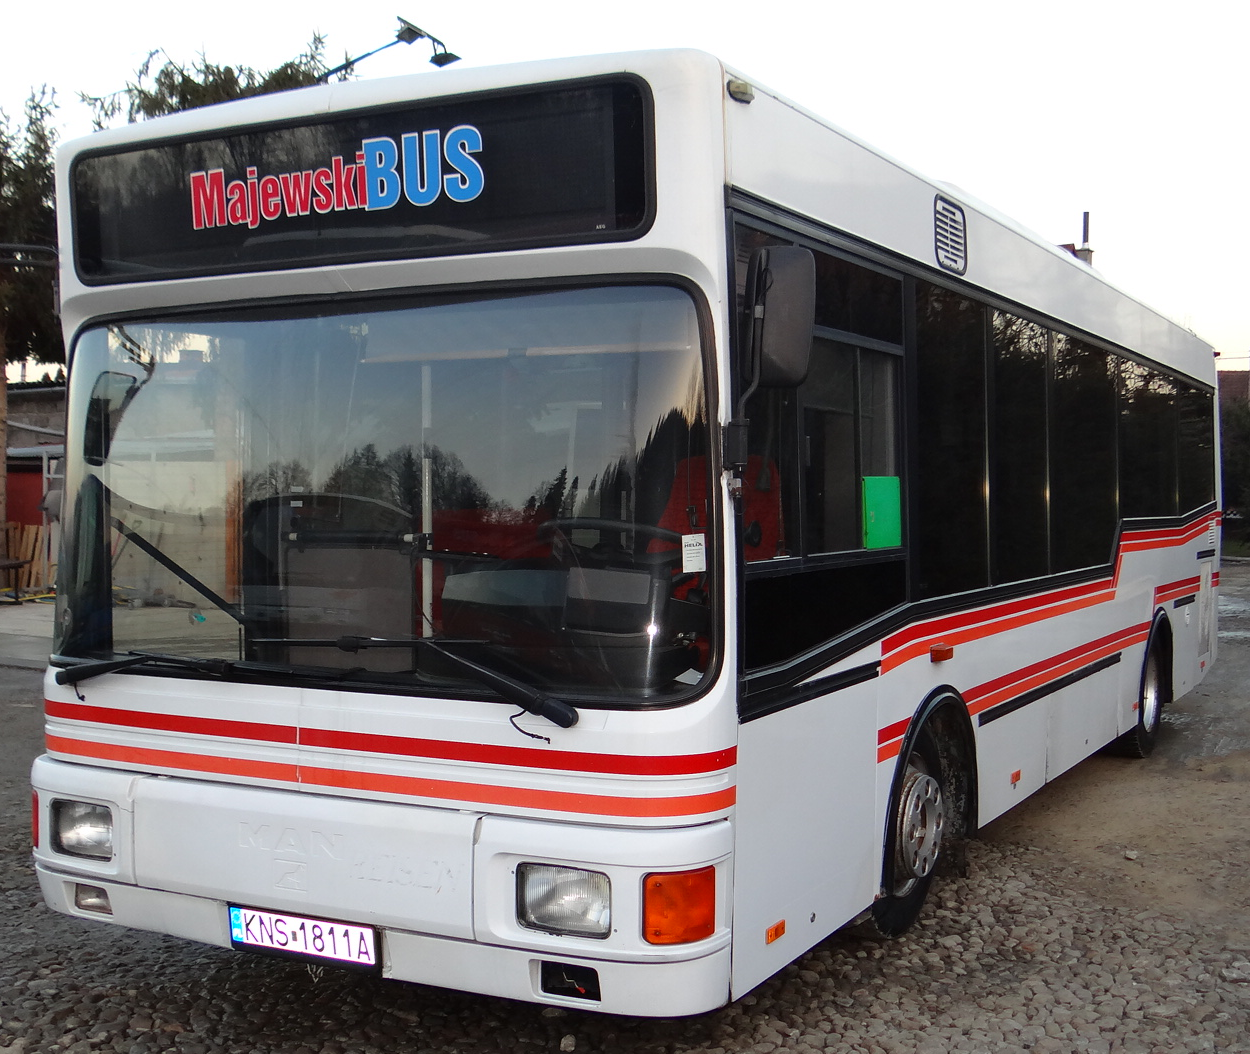
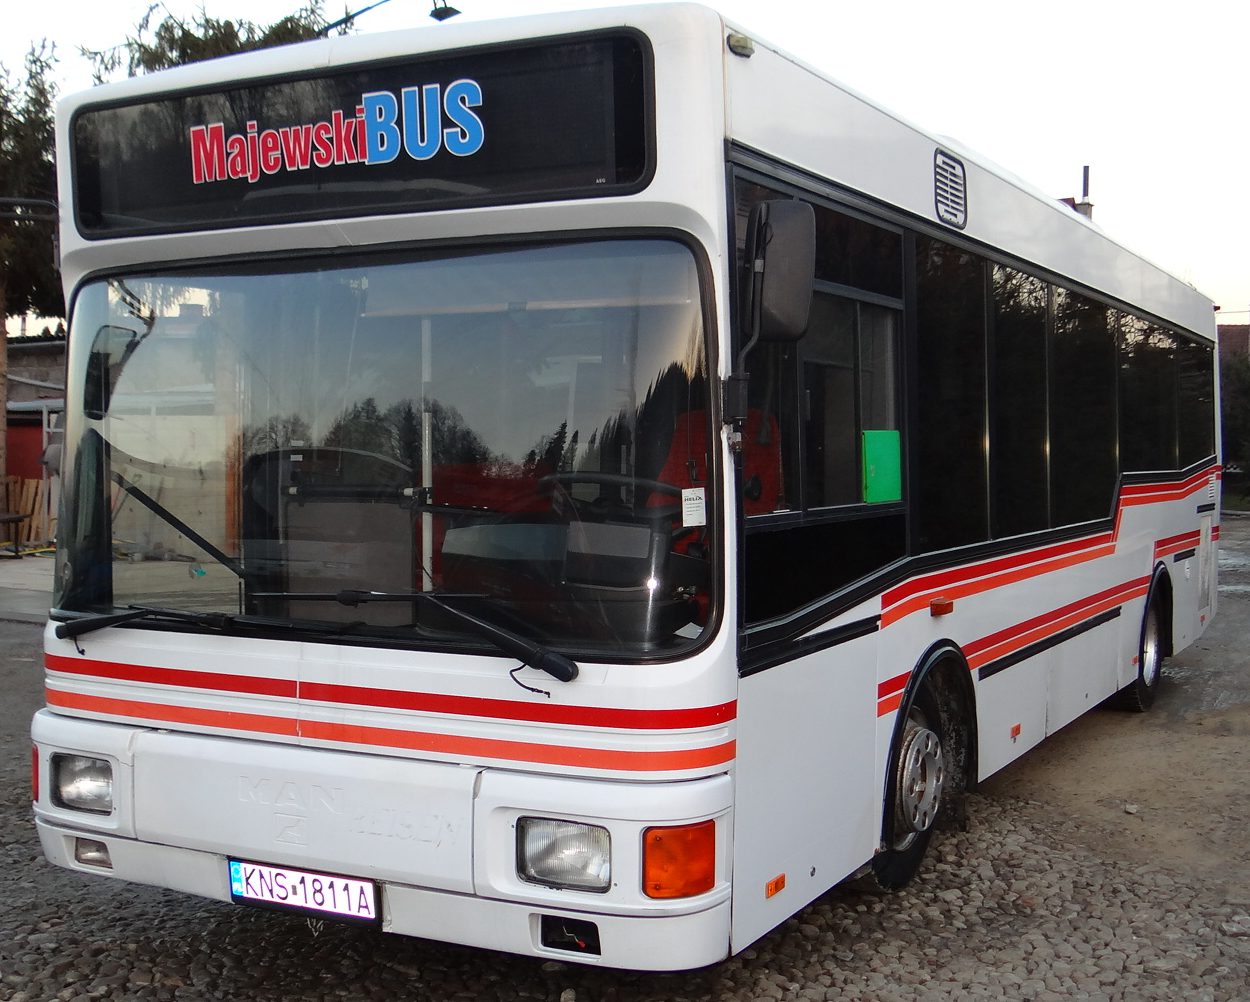
add a page title

diff --git a/index.html b/index.html
@@ -8,24 +8,34 @@
       name="description"
       content="Piotr Majewski & Dariusz Majewski - obsługujemy wycieczki, wesela, transport krajowy i międzynarodowy. Nowy Sącz, Podegrodzie i okolice"
     />
-    <link rel="icon" href="assets/bus-icon.ico" type="image/icon type" />
     <meta name="author" content="Maciej Niemiec" />
+    <link rel="icon" href="assets/bus-icon.ico" type="image/icon type" />
     <link rel="stylesheet" href="style/style.css" />
     <title>MajewskiBUS</title>
   </head>
   <body>
     <main class="main-container">
-      <section class="first-page-container">
+      <section class="first-screen-container">
         <header class="top-bar">
           <div class="logo">
             <span class="logo__left logo__left--top-bar">Majewski</span>
             <span class="logo__right logo__right--top-bar">BUS</span>
           </div>
+          <h1 class="title">
+            <span
+              >Przewóz Osobowo<span class="title--brighter">-</span
+              >Towarowy</span
+            >
+            <span class="title__lower-line">
+              Piotr Majewski <span class="title--brighter">i</span> Dariusz
+              Majewski <span class="title--brighter">s.j.</span></span
+            >
+          </h1>
         </header>
         <div class="bus-image"></div>
       </section>
 
-      <section class="second-page-container">
+      <section class="second-screen-container">
         <footer class="bottom-bar">
           <div class="contact-container">
             <div class="logo">

diff --git a/style/topBar/title.css b/style/topBar/title.css
@@ -1,0 +1,25 @@
+.title {
+  width: 50%;
+  display: flex;
+  flex-direction: column;
+  align-items: flex-end;
+  justify-content: flex-end;
+  padding-bottom: 1%;
+  font-family: 'Alatsi', sans-serif;
+  font-size: 3.1rem;
+  color: var(--bar-bg-color);
+  text-shadow: -1px 0 var(--logo-shadow-color), 0 1px var(--logo-shadow-color),
+    1px 0 var(--logo-shadow-color), 0 -1px var(--logo-shadow-color);
+  opacity: 0.9;
+  z-index: 15;
+}
+
+.title__lower-line {
+  margin-right: 12%;
+}
+
+.title--brighter {
+  font-size: 2.1rem;
+  letter-spacing: -1px;
+  color: var(--title-lighter-color);
+}

diff --git a/style/topBar/topBar.css b/style/topBar/topBar.css
@@ -3,18 +3,21 @@
   height: var(--top-bar-height);
   position: relative;
   display: flex;
-  padding: 1%;
+  justify-content: space-between;
+  flex-wrap: wrap;
+  background-color: rgb(48, 46, 44, 0.3);
+  padding: 1% 1% 0 1%;
 }
 
 .top-bar::after {
   content: '';
   width: 110%;
-  height: calc(var(--top-bar-height) + 8vh);
+  height: calc(var(--top-bar-height) + 2vh);
   background-color: var(--bar-bg-color);
   position: absolute;
   left: -10px;
   top: -120px;
-  transform: rotate(-2.1deg);
+  transform: rotate(-3deg);
   border: solid 2px var(--left-logo-color);
   z-index: 5;
 }

diff --git a/style/style.css b/style/style.css
@@ -2,11 +2,12 @@
 @import 'containers.css';
 @import 'topBar/topBar.css';
 @import 'topBar/logo.css';
+@import 'topBar/title.css';
 @import 'bottomBar/bottomBar.css';
 @import 'bottomBar/contactSection.css';
 @import 'bottomBar/PFRinfo.css';
-@import 'firstPage/busImage.css';
-@import 'secondPage/busInteriorImage.css';
+@import 'firstScreen/busImage.css';
+@import 'secondScreen/busInteriorImage.css';
 /* fonts */
 @import url('https://fonts.googleapis.com/css2?family=Baloo+Da+2&display=swap');
 @import url('https://fonts.googleapis.com/css2?family=Alatsi&display=swap');

diff --git a/style/containers.css b/style/containers.css
@@ -5,8 +5,8 @@
   overflow: hidden;
 }
 
-.first-page-container,
-.second-page-container {
+.first-screen-container,
+.second-screen-container {
   width: 100%;
   height: 100vh;
   position: relative;
@@ -14,11 +14,11 @@
   flex-direction: column;
 }
 
-.first-page-container {
+.first-screen-container {
   background-image: url('../assets/subtle_orange_emboss.webp');
 }
 
-.second-page-container {
+.second-screen-container {
   background-image: url('../assets/subtle_orange_emboss.webp');
   margin-bottom: var(--bottom-bar-height);
 }

diff --git a/style/firstScreen/busImage.css b/style/firstScreen/busImage.css
@@ -1,8 +1,8 @@
 .bus-image {
   width: 50vw;
-  height: calc(100vh - 10px);
+  height: calc(100vh - var(--top-bar-height));
   position: absolute;
-  top: 10px;
+  top: var(--top-bar-height);
   right: 0;
   -webkit-box-shadow: inset 15px -18px 68px 26px rgba(227, 227, 227, 1);
   -moz-box-shadow: inset 15px -18px 68px 26px rgba(227, 227, 227, 1);

diff --git a/style/variables.css b/style/variables.css
@@ -5,9 +5,10 @@
   --logo-shadow-color: #cfcfcf;
   /* background */
   --bar-bg-color: #302e2c;
-  --second-page-bg-color: #6e6e6e;
   /* top bar */
-  --top-bar-height: 12vh;
+  --top-bar-height: 18vh;
   /* bottom bar */
   --bottom-bar-height: 50vh;
+  /* title */
+  --title-lighter-color: #5a5754;
 }
